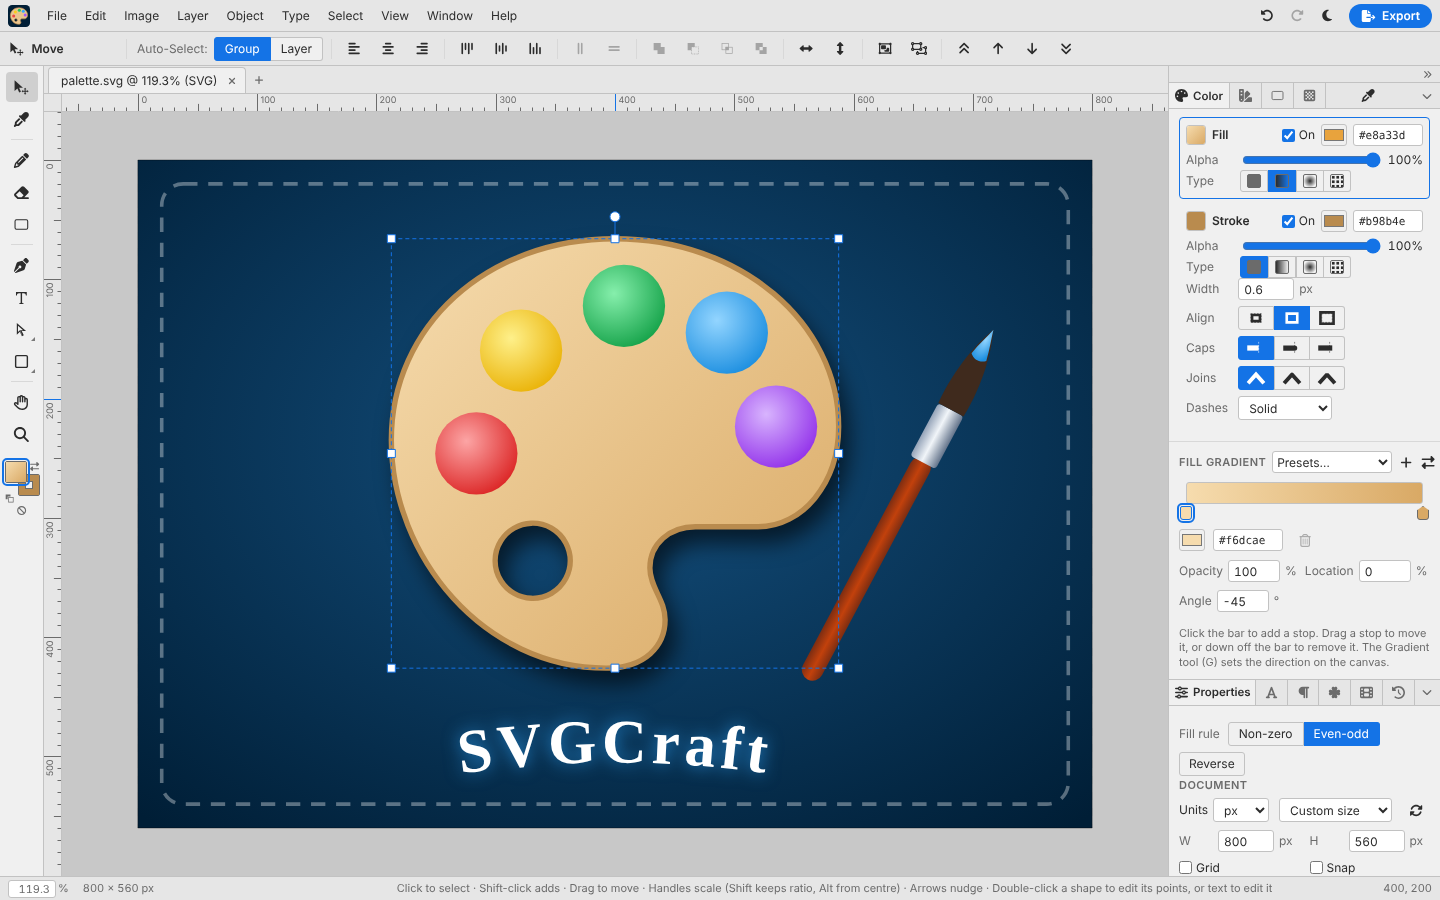
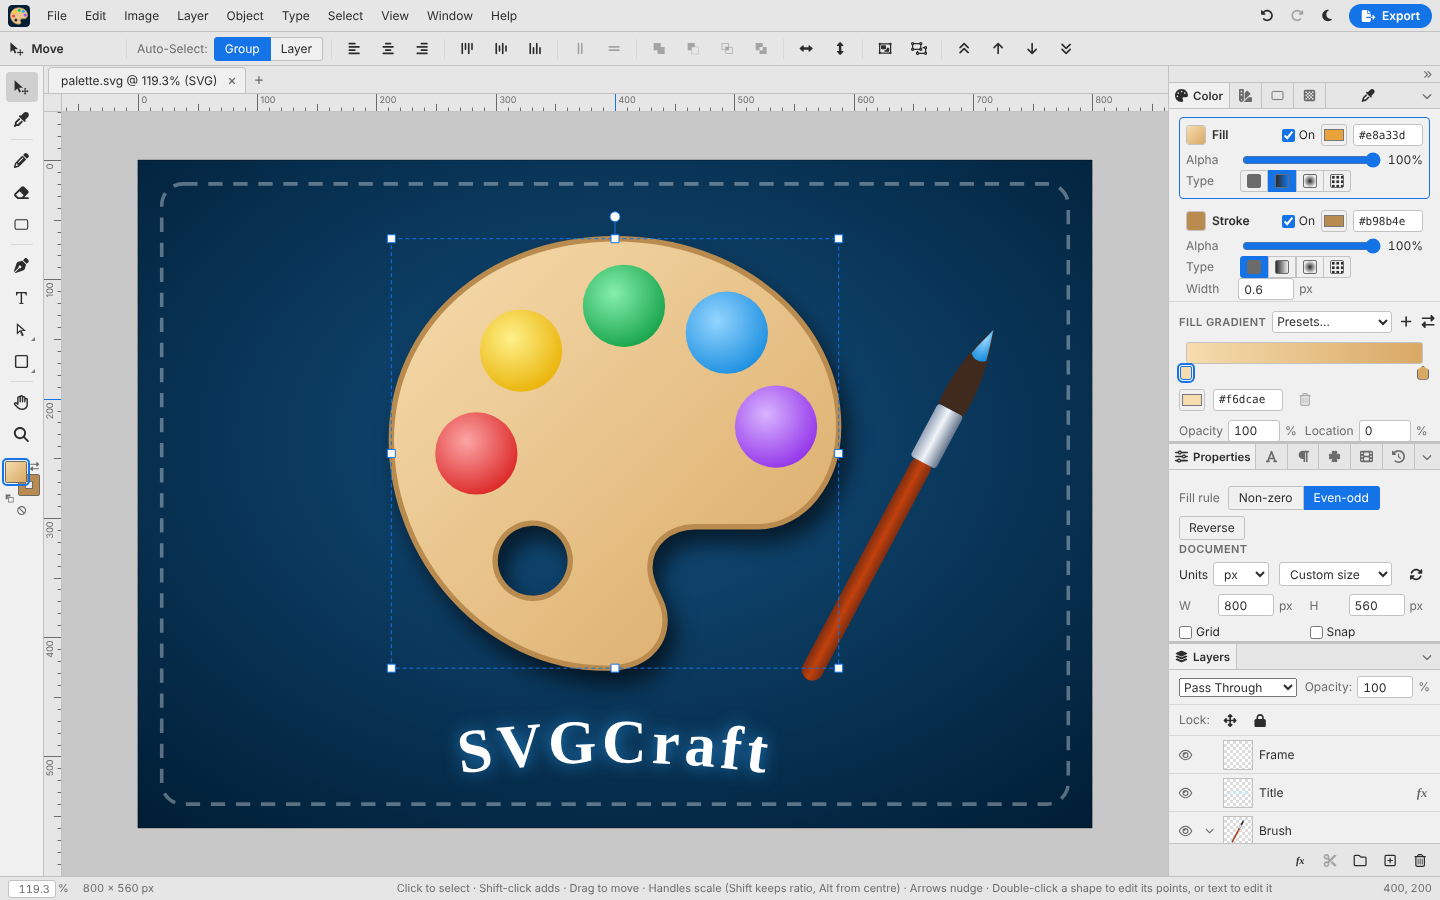
Panel groups keep their heights, with dividers; phone text view with Copy
- Each tabbed panel group keeps its height (content scrolls inside), so
  selecting a shape no longer shuffles the Layers list; drag the divider
  under a group to resize it (double-click: natural height; arrow keys
  too), remembered, reset by Reset Workspace. Layers takes the rest and
  keeps at least 180 px, so it never runs off the bottom.
- Phone: a </> button opens the SVG source full-screen (Find, Copy,
  Download); the same button goes back to the drawing.
- README, About and its screenshots updated.

Claude-Session: https://claude.ai/code/session_01LfsWSwEFpFHrQHz6Da88na

Changed region(s): [[0.8125, 0.3422, 1.0, 0.9956]]

diff --git a/src/panels.js b/src/panels.js
@@ -65,6 +65,72 @@ pgroups.forEach((group) => {
   setCollapsed(group, savedCollapsed(group), false);
 });
 
+// Group heights, as in Photoshop: each tabbed group keeps its height
+// whatever its tab shows (more scrolls inside it), so selecting something
+// doesn't shuffle the panels below; drag the divider under a group to
+// resize it (double-click for its natural height). Layers takes the rest,
+// and always keeps room. Desktop only; remembered.
+const PANEL_H_KEY = 'svgcraft.panelHeights';
+const MIN_GROUP_H = 90;
+const tabGroups = pgroups.filter((g) => g.hasAttribute('data-tabs'));
+function naturalHeight(g) {
+  const folded = g.classList.contains('collapsed');
+  g.classList.remove('collapsed');
+  g.style.removeProperty('--h');
+  const h = Math.ceil(g.scrollHeight);
+  g.classList.toggle('collapsed', folded);
+  return h || 300;
+}
+function setGroupHeight(g, h, save = true) {
+  g.style.setProperty('--h', `${Math.round(Math.max(MIN_GROUP_H, h))}px`);
+  if (save)
+    store(
+      PANEL_H_KEY,
+      tabGroups.map((x) => parseFloat(x.style.getPropertyValue('--h')) || null),
+    );
+}
+function applyGroupHeights() {
+  const saved = stored(PANEL_H_KEY, []);
+  tabGroups.forEach((g, i) => {
+    const h = Array.isArray(saved) && saved[i];
+    setGroupHeight(g, h > 0 ? h : naturalHeight(g), false);
+  });
+}
+for (const g of tabGroups) {
+  const split = document.createElement('div');
+  split.className = 'sc-splitter sc-splitter-h sc-psplit';
+  split.tabIndex = 0;
+  split.setAttribute('role', 'separator');
+  split.setAttribute('aria-orientation', 'horizontal');
+  split.setAttribute('aria-label', 'Resize panel');
+  g.after(split);
+  split.addEventListener('pointerdown', (e) => {
+    e.preventDefault();
+    split.setPointerCapture(e.pointerId);
+    split.classList.add('dragging');
+    const y0 = e.clientY;
+    const h0 = g.getBoundingClientRect().height;
+    const max = $('#sc-panel').clientHeight;
+    const move = (ev) => setGroupHeight(g, Math.min(max, h0 + ev.clientY - y0), false);
+    const up = () => {
+      split.classList.remove('dragging');
+      split.removeEventListener('pointermove', move);
+      setGroupHeight(g, g.getBoundingClientRect().height);
+    };
+    split.addEventListener('pointermove', move);
+    split.addEventListener('pointerup', up, { once: true });
+    split.addEventListener('pointercancel', up, { once: true });
+  });
+  split.addEventListener('dblclick', () => setGroupHeight(g, naturalHeight(g)));
+  split.addEventListener('keydown', (e) => {
+    const d = { ArrowUp: -10, ArrowDown: 10 }[e.key];
+    if (!d) return;
+    e.preventDefault();
+    setGroupHeight(g, g.getBoundingClientRect().height + d);
+  });
+}
+applyGroupHeights();
+
 // The » button: the panels shrink to a strip of their icons, as in
 // Photoshop; an icon pops its panel out beside the strip, and a click
 // elsewhere or Esc puts it away. Desktop only (tablets have the drawer).
@@ -203,6 +269,8 @@ actions.resetWorkspace = () => {
     g.querySelector('[data-tab]')?.click();
   }
   store(PANELS_KEY, null);
+  store(PANEL_H_KEY, null);
+  applyGroupHeights();
   for (const k of [DOCK_W_KEY, DOCK_SPLIT_KEY]) store(k, null);
   for (const d of dockables) {
     store(d.key, null);

diff --git a/tests/panel-heights.spec.js b/tests/panel-heights.spec.js
@@ -1,0 +1,55 @@
+// Panel group heights, as in Photoshop: a tabbed group keeps its height
+// (its content scrolls inside), so the Layers list doesn't move under the
+// pointer; dividers resize the groups; Layers always keeps room.
+import { test, expect, load } from './fixtures.js';
+
+const rowTop = (page) => page.$eval('#sc-layers li', (li) => li.getBoundingClientRect().top);
+const groupH = (page, i) =>
+  page.$eval(
+    `#sc-panel > .sc-pgroup:nth-of-type(${i + 1})`,
+    (g) => g.getBoundingClientRect().height,
+  );
+
+test('selecting a shape doesn’t shuffle the Layers list', async ({ page }) => {
+  await load(page, '<rect id="r" x="10" y="10" width="50" height="50" rx="4"/>');
+  const before = await rowTop(page);
+  // A rectangle brings its corner settings into Properties.
+  await page.click('#sc-layers li');
+  await expect(page.locator('#sc-corner-props')).toBeVisible();
+  expect(await rowTop(page)).toBe(before);
+});
+
+test('Layers keeps room however tall the panels above are', async ({ page }) => {
+  await page.setViewportSize({ width: 1400, height: 700 });
+  await load(page, '<rect id="r" width="50" height="50"/>');
+  const layers = page.locator('#sc-panel > .sc-pgroup.sc-grow');
+  const box = await layers.boundingBox();
+  expect(box.height).toBeGreaterThanOrEqual(179);
+  expect(box.y + box.height).toBeLessThanOrEqual(700);
+  await expect(page.locator('#sc-layers li').first()).toBeInViewport();
+});
+
+test('a divider resizes the group above it, remembered; Reset Workspace undoes it', async ({
+  page,
+}) => {
+  const split = page.locator('.sc-psplit').first();
+  const h0 = await groupH(page, 0);
+  const b = await split.boundingBox();
+  await page.mouse.move(b.x + b.width / 2, b.y + b.height / 2);
+  await page.mouse.down();
+  await page.mouse.move(b.x + b.width / 2, b.y - 60, { steps: 4 });
+  await page.mouse.up();
+  const h1 = await groupH(page, 0);
+  expect(h1).toBeLessThan(h0 - 50);
+  await page.reload();
+  await page.waitForFunction(() => !!window.svgcraft);
+  expect(Math.abs((await groupH(page, 0)) - h1)).toBeLessThan(2);
+  // The keyboard moves it too.
+  await page.locator('.sc-psplit').first().focus();
+  await page.keyboard.press('ArrowDown');
+  expect(Math.abs((await groupH(page, 0)) - (h1 + 10))).toBeLessThan(2);
+
+  await page.click('.sc-menu-btn:text-is("Window")');
+  await page.click('.sc-menu-list:not([hidden]) [data-action="resetWorkspace"]');
+  expect(Math.abs((await groupH(page, 0)) - h0)).toBeLessThan(2);
+});

diff --git a/style.css b/style.css
@@ -2860,6 +2860,25 @@ body.sc-no-doc .sc-status > * {
 .sc-preview .sc-splitter {
   display: none !important;
 }
+/* The phone's text view: SVG Source fills the screen under the toolbar. */
+.sc-preview .sc-src:not(.sc-iconprev) {
+  inset: 33px 0 0 !important;
+  width: auto !important;
+  height: auto !important;
+  min-width: 0;
+  max-width: none;
+  max-height: none;
+  margin: 0;
+  transform: none !important;
+  resize: none;
+  border: 0;
+  border-radius: 0;
+  box-shadow: none;
+}
+.sc-preview .sc-src .sc-src-grip,
+.sc-preview .sc-src #sc-src-dock {
+  display: none;
+}
 
 /* ---- File → Export App Icons… ------------------------------------------------ */
 .sc-appicons {
@@ -3203,6 +3222,39 @@ body.sc-no-doc .sc-status > * {
 }
 .sc-dock-strip {
   display: none;
+}
+/* Group heights (src/panels.js): a tabbed group keeps its height and
+   scrolls inside; Layers takes the rest, never less than its minimum. */
+.sc-psplit {
+  display: none;
+}
+@media (min-width: 1024px) {
+  body:not(.sc-dock-icons):not(.sc-no-panels):not(.sc-no-right) #sc-panel {
+    overflow: hidden;
+  }
+  body:not(.sc-dock-icons) .sc-psplit {
+    display: block;
+    flex: none;
+    z-index: 2;
+  }
+  body:not(.sc-dock-icons) .sc-pgroup.collapsed + .sc-psplit {
+    display: none;
+  }
+  body:not(.sc-dock-icons) .sc-pgroup[data-tabs]:not(.collapsed) {
+    flex: 0 1 var(--h, auto);
+    min-height: 90px;
+    overflow: hidden;
+  }
+  body:not(.sc-dock-icons) .sc-pgroup[data-tabs]:not(.collapsed) > .sc-pbody {
+    flex: 0 1 auto;
+    min-height: 0;
+    overflow-y: auto;
+    overscroll-behavior: contain;
+  }
+  body:not(.sc-dock-icons) .sc-pgroup.sc-grow:not(.collapsed) {
+    flex: 1 1 0;
+    min-height: 180px;
+  }
 }
 @media (min-width: 1024px) {
   body.sc-dock-icons .sc-main {

diff --git a/tests/phone.spec.js b/tests/phone.spec.js
@@ -206,6 +206,35 @@ test.describe('phone, portrait', () => {
       .toEqual(['test.svg image/svg+xml', 'test.png image/png']);
   });
 
+  test('the text view shows the SVG source to copy; the same button goes back', async ({
+    page,
+    context,
+  }) => {
+    await context.grantPermissions(['clipboard-read', 'clipboard-write']);
+    await load(page, DRAWING);
+    const btn = page.locator('[data-action="phoneSource"]');
+    const src = page.locator('#sc-source');
+    await expect(src).toBeHidden();
+    await btn.tap();
+    await expect(src).toBeVisible();
+    await expect(btn).toHaveAttribute('aria-pressed', 'true');
+    await expect(btn).toHaveAttribute('aria-label', 'Drawing view');
+    // It fills the screen under the toolbar.
+    const box = await src.boundingBox();
+    expect(box.width).toBeGreaterThanOrEqual(389);
+    expect(box.y + box.height).toBeGreaterThanOrEqual(799);
+    await expect(page.locator('#sc-src-code')).toContainText('<circle id="c"');
+    await page.locator('#sc-src-copy').tap();
+    await expect
+      .poll(() => page.evaluate(() => navigator.clipboard.readText()))
+      .toContain('<circle id="c"');
+    // Back to the drawing.
+    await btn.tap();
+    await expect(src).toBeHidden();
+    await expect(btn).toHaveAttribute('aria-label', 'Text view');
+    await expect(page.locator('#sc-stage')).toBeVisible();
+  });
+
   test('double-tap zooms in on the spot, and again fits', async ({ page }) => {
     await load(page, DRAWING, 300, 200);
     await bar(page, 'fit').click();

diff --git a/src/source.js b/src/source.js
@@ -474,6 +474,7 @@ function openSource() {
   // Docked beside the canvas, unless it was floated (src/dock.js).
   dockOnOpen(srcDock);
   $('[data-action="toggleSource"]').setAttribute('aria-checked', 'true');
+  syncPhoneSource();
   v.text = null;
   v.sel = [...state.sel];
   srcRender();
@@ -488,6 +489,7 @@ function closeSource() {
   srcWin.hidden = true;
   syncDock();
   $('[data-action="toggleSource"]').setAttribute('aria-checked', 'false');
+  syncPhoneSource();
   if (srcHL) {
     CSS.highlights.delete('sc-src-find');
     CSS.highlights.delete('sc-src-find-cur');
@@ -500,6 +502,16 @@ function closeSource() {
   }
 }
 const toggleSource = () => (srcView.open ? closeSource() : openSource());
+// The phone's text view: the source full-screen under the toolbar, with
+// Copy; the same button goes back to the drawing.
+function syncPhoneSource() {
+  const b = $('[data-action="phoneSource"]');
+  const open = srcView.open;
+  b.setAttribute('aria-pressed', open);
+  b.dataset.tip = open ? 'Drawing view' : 'Text view: the SVG source, to read, search and copy';
+  b.setAttribute('aria-label', open ? 'Drawing view' : 'Text view');
+  b.innerHTML = `<i data-icon="${open ? 'image' : 'code'}">${icon(open ? 'image' : 'code')}</i>`;
+}
 
 // A split pane beside the canvas, or (floated) a window of its own.
 const srcDock = makeDockable(srcWin, {

diff --git a/about.html b/about.html
@@ -408,7 +408,7 @@
             <p>
               Follows your system theme, or pick Dark or Light from View → Theme. On a phone it
               becomes a viewer: play the animations, show and hide layers, try it on white or black,
-              and share it.
+              read and copy its SVG source, and share it.
             </p>
           </div>
         </div>
@@ -678,8 +678,9 @@
               </li>
               <li>
                 Panels with Photoshop-style icon tabs: fold any group to its tabs, or collapse the
-                whole column to a strip of icons that pop each panel out. A Window menu lists every
-                panel, and Reset Workspace puts it all back.
+                whole column to a strip of icons that pop each panel out, and drag the dividers
+                between groups to resize them. A Window menu lists every panel, and Reset Workspace
+                puts it all back.
               </li>
               <li>
                 Menu items and buttons grey out until they can run on what's selected, and their

diff --git a/index.html b/index.html
@@ -603,6 +603,15 @@
         </button>
         <button
           class="sc-ibtn sc-preview-only"
+          data-action="phoneSource"
+          aria-pressed="false"
+          aria-label="Text view"
+          data-tip="Text view: the SVG source, to read, search and copy"
+        >
+          <i data-icon="code"></i>
+        </button>
+        <button
+          class="sc-ibtn sc-preview-only"
           data-action="previewBg"
           aria-label="Background"
           data-tip="Background: checkerboard, white or black"

diff --git a/src/actions.js b/src/actions.js
@@ -14,6 +14,7 @@ const actions = {
   peekLayers: () => peekLayers(),
   previewBg: () => previewBg(),
   shareDoc: () => shareDoc(),
+  phoneSource: () => toggleSource(),
   makeSymbol,
   editSymbol,
   breakSymbolLink,

diff --git a/README.md b/README.md
@@ -30,6 +30,9 @@ The phone toolbar also has:
   tab or moving to a bigger screen shows the drawing as it is again.
   **Hide all** / **Show all** do every layer (Show all includes ones the
   file itself hides); layers inside a hidden group are dimmed.
+- **Text view** (`</>`): the SVG source full-screen, syntax-coloured, to
+  read, search and **Copy** (or download); the same button (now a picture)
+  goes back to the drawing.
 - **Background**: the artwork on the checkerboard, white or black
   (remembered).
 - **Share**: the phone's share sheet with the SVG and a PNG of it
@@ -69,6 +72,12 @@ The layout follows Photoshop:
   I-beam and the curved arrow on the rotate handle.
 - **Document tabs** above the canvas, one per open drawing, showing the
   file name and zoom (see Documents below).
+- **Panel heights**, as in Photoshop: each group keeps its height whatever
+  its tab shows (longer content scrolls inside it), so selecting something
+  never shuffles the panels below. Drag the divider under a group to resize
+  it (double-click it for the group's natural height, or use the arrow
+  keys); Layers takes the rest and always keeps room. Remembered; Reset
+  Workspace puts them back.
 - **Docked panels**: Color (fill and stroke, with the stroke's width,
   alignment, caps, joins and dashes) / Swatches / Gradients / Patterns, Properties
   (shape settings, document size, grid and snap), Character / Paragraph,
